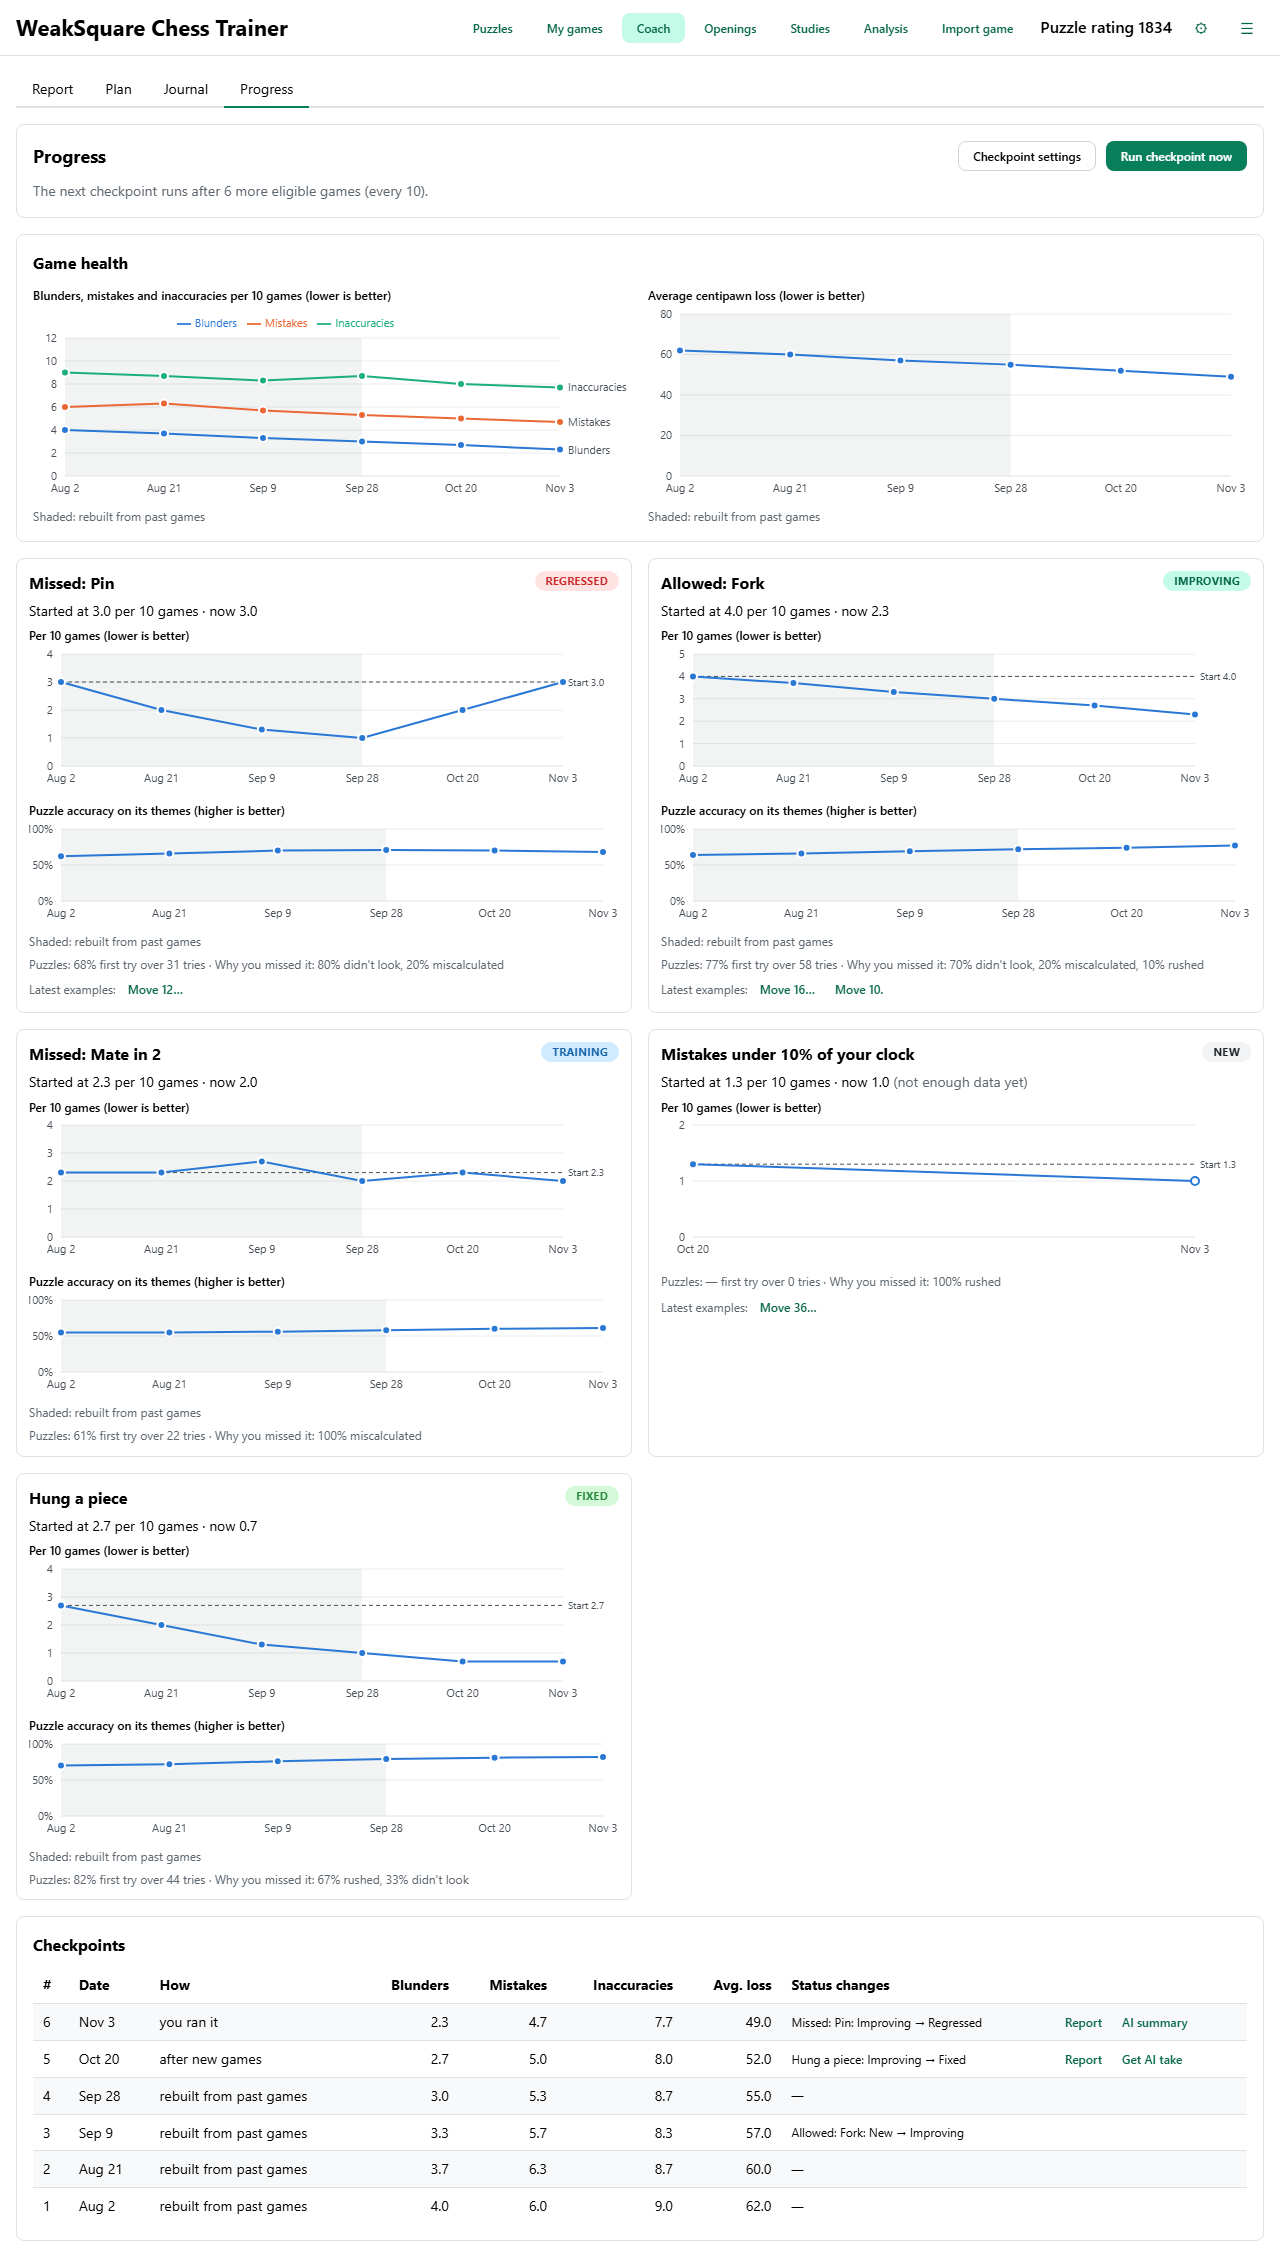
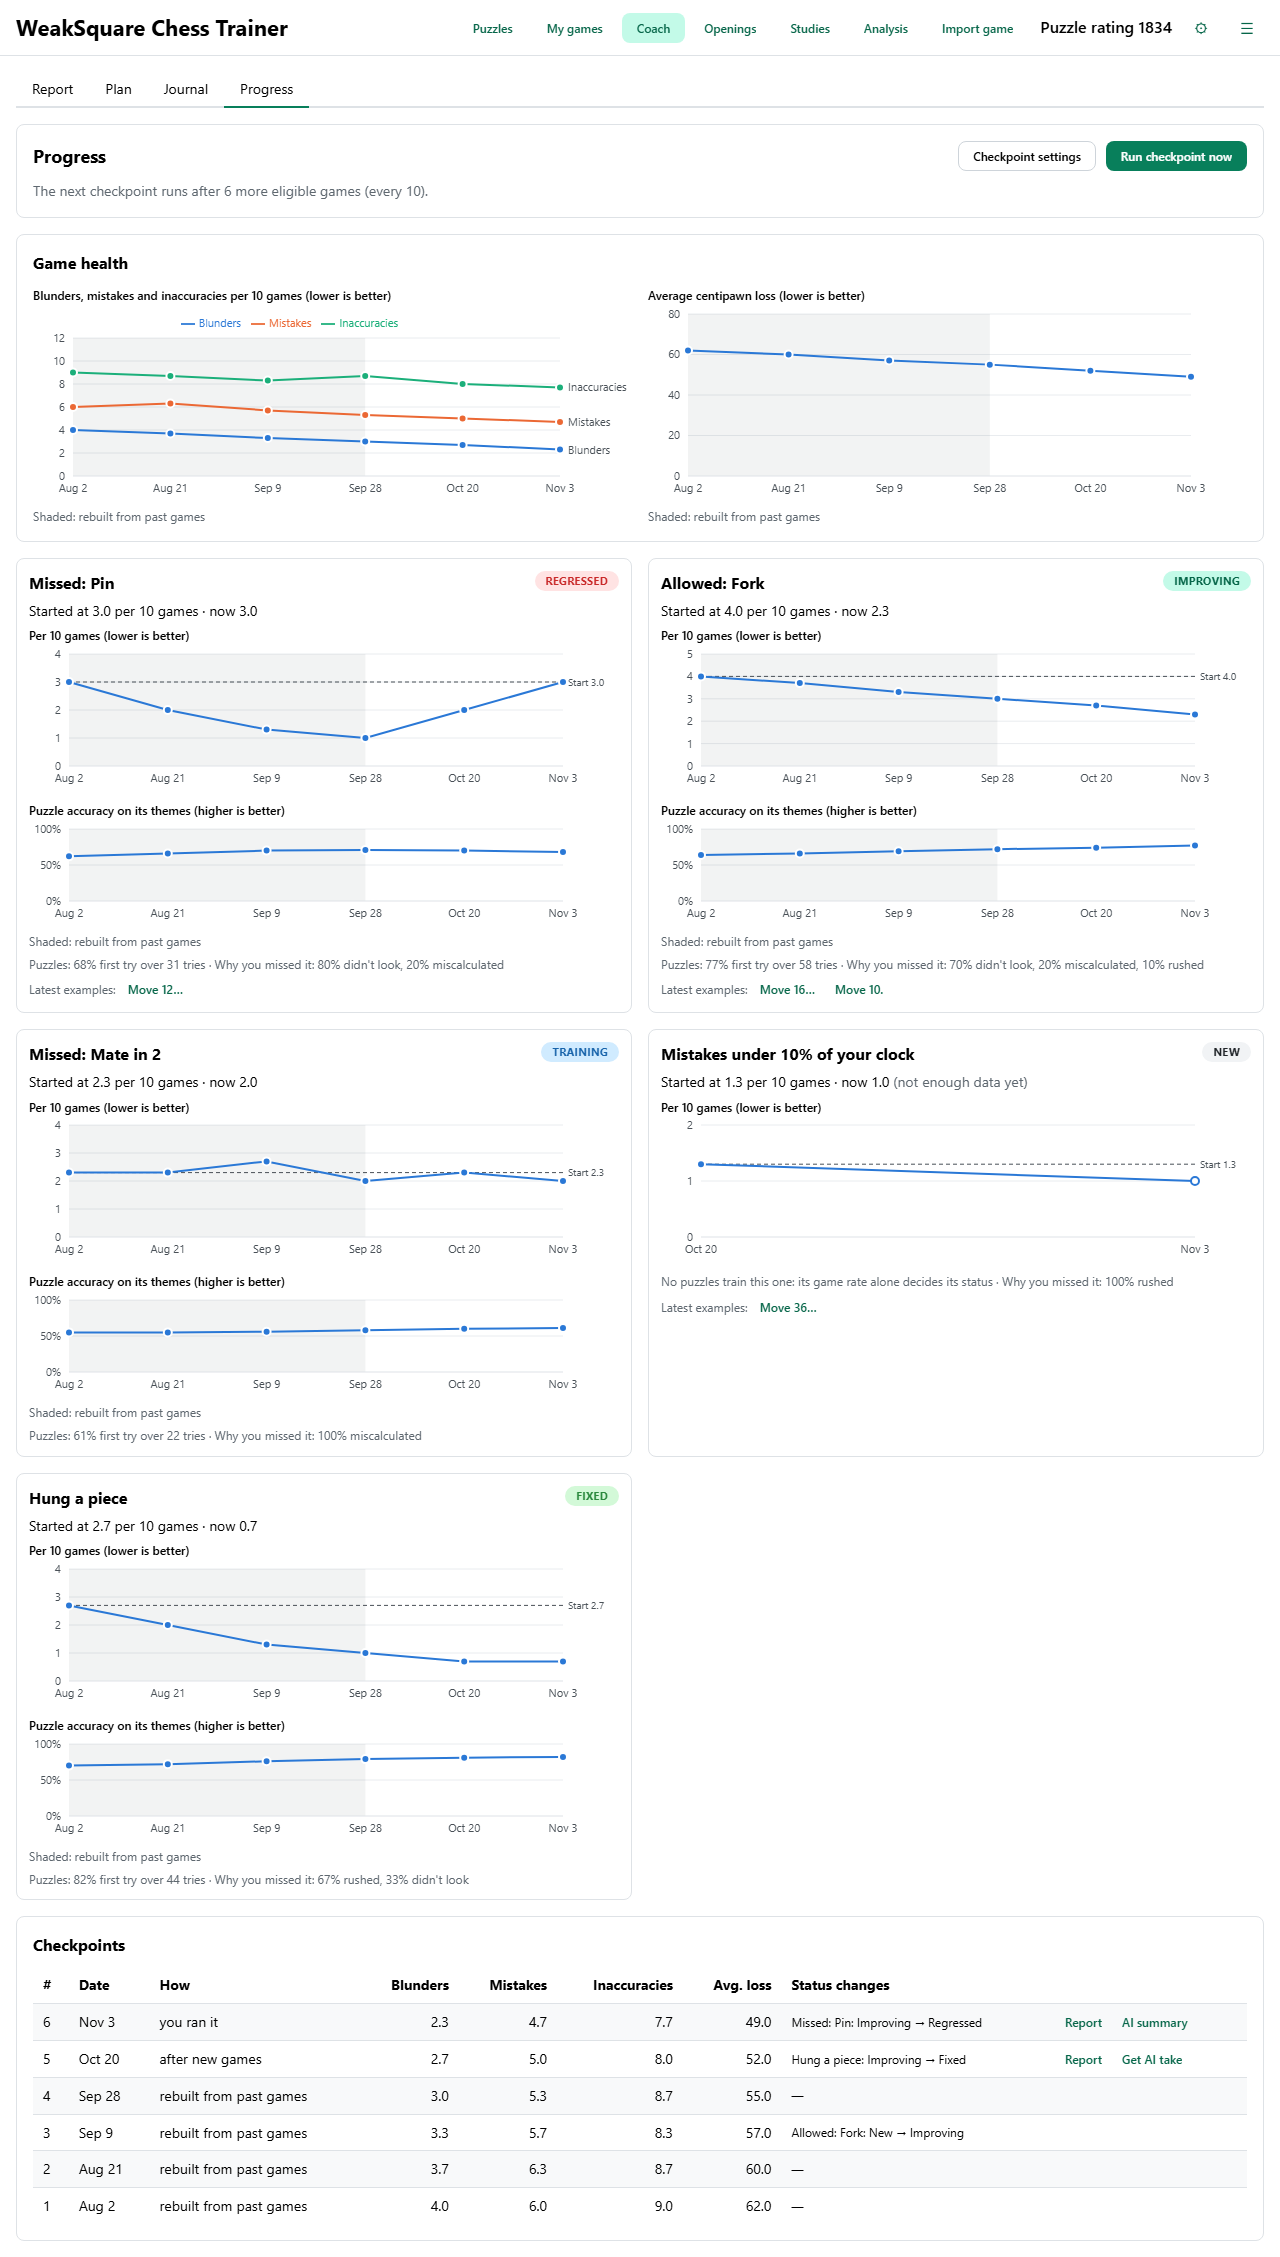
v1.0 QA round 1 fixes: B1-B6
- B1 (major): the wizard no longer records "restore" before a restore
  runs. The start that swaps a staged backup in calls
  SetupService.note_restored; a refused or failed restore leaves the
  welcome step and its error. choose_setup accepts only "fresh".
- B2: ruff format of tests/smoke/conftest.py.
- B3: a weakness no puzzle trains says so (WeaknessCard.puzzle_themes)
  instead of "over 0 tries"; no tries yet says that.
- B4: a card's two charts share their margins so each checkpoint sits
  at the same x; the left margin no longer clips "100%".
- B5: US spelling in the CHANGELOG and User Guide.
- B6: FR-10.38's main sentence matches the two-chart build note.

Regression tests: QA's xfails now pass; integration tests for B1 and B3.
ARCHITECTURE §7 wizard entry updated. Screenshots regenerated.

diff --git a/web/src/components/ProgressTab.tsx b/web/src/components/ProgressTab.tsx
@@ -137,7 +137,9 @@ function TrendChart({
       </Text>
       <div style={{ width: "100%", height }} aria-label={title}>
         <ResponsiveContainer>
-          <LineChart data={data} margin={{ top: 8, right: series.length > 1 ? 72 : baseline !== undefined ? 56 : 16, bottom: 0, left: -12 }}>
+          {/* The same right margin with or without the baseline's label, so a card's two charts put each checkpoint
+              at the same x (v1.0-B4). */}
+          <LineChart data={data} margin={{ top: 8, right: series.length > 1 ? 72 : 56, bottom: 0, left: -4 }}>
             <CartesianGrid vertical={false} stroke={GRID[scheme]} />
             <XAxis dataKey="when" tick={{ fontSize: 11, fill: INK[scheme] }} tickLine={false} axisLine={{ stroke: GRID[scheme] }} minTickGap={16} />
             <YAxis
@@ -256,7 +258,12 @@ function WeaknessCardView({ card, onReview }: { card: WeaknessCard; onReview: (g
             series={[{ key: "accuracy", label: "Puzzle accuracy" }]} percent height={110} testId="progress-accuracy-chart" />
         )} {/* prettier-ignore */}
         <Text size="xs" c="dimmed">
-          Puzzles: {pct(card.puzzle_accuracy)} first try over {card.puzzle_attempts} tries · Why you missed it: {reasonMix(card.reasons)}
+          {!card.puzzle_themes
+            ? "No puzzles train this one: its game rate alone decides its status"
+            : card.puzzle_attempts === 0
+              ? "Puzzles: no tries on its themes yet"
+              : `Puzzles: ${pct(card.puzzle_accuracy)} first try over ${card.puzzle_attempts} tries`}{" "}
+          · Why you missed it: {reasonMix(card.reasons)}
         </Text>
         {card.examples.length > 0 && (
           <Group gap={4}>

diff --git a/web/src/api/mockProgress.ts b/web/src/api/mockProgress.ts
@@ -65,8 +65,9 @@ function points(per10: (number | null)[], accuracy: (number | null)[], guarded: 
 
 function seeded(): WeaknessCard[] {
   const last = (p: ProgressPoint[]) => p[p.length - 1];
-  const card = (c: Omit<WeaknessCard, "current_per10" | "current_guarded" | "puzzle_accuracy">): WeaknessCard => ({
+  const card = (c: Omit<WeaknessCard, "current_per10" | "current_guarded" | "puzzle_accuracy" | "puzzle_themes">): WeaknessCard => ({
     ...c, current_per10: last(c.points).per10, current_guarded: last(c.points).guarded, puzzle_accuracy: last(c.points).puzzle_accuracy,
+    puzzle_themes: c.kind !== "time", // nothing trains time use with puzzles
   }); // prettier-ignore
   return [
     card({
@@ -173,6 +174,7 @@ export class MockProgress {
           key, kind, label, status: "training", status_since: n, baseline_per10: per10, baseline_games: 30, current_per10: per10,
           current_guarded: false, puzzle_accuracy: 0.66, puzzle_attempts: 24, reasons: { didntLook: 2 },
           points: [{ checkpoint: n, created_at: created, per10, puzzle_accuracy: 0.66, guarded: false, reconstructed: false }], examples: [],
+          puzzle_themes: true,
         }); // prettier-ignore
         this.cards = [first("allowed:fork", "allowed", "Allowed: Fork", 4.0), first("missed:pin", "missed", "Missed: Pin", 3.0)];
       }

diff --git a/web/src/api/ApiClient.ts b/web/src/api/ApiClient.ts
@@ -615,8 +615,8 @@ export interface ApiClient {
   // ---- v1.0: the first-run wizard (NFR-8, FR-15.4) ----
   /** Whether to show the wizard and which step, decided from what's installed. */
   getSetupState(): Promise<SetupState>;
-  /** The welcome step: "fresh", or "restore" just before Replace my data. */
-  chooseSetup(choice: "fresh" | "restore"): Promise<SetupState>;
+  /** The welcome step's Start fresh. A restore is recorded by the app once it has swapped in (v1.0-B1). */
+  chooseSetup(choice: "fresh"): Promise<SetupState>;
   skipSetupStep(step: "engine" | "lichess"): Promise<SetupState>;
   finishSetup(): Promise<SetupState>;
   /** Subscribe to pushed events (job progress, account, sync). Returns an unsubscribe function. */

diff --git a/web/src/views/WizardView.tsx b/web/src/views/WizardView.tsx
@@ -35,7 +35,7 @@ function Welcome({ onFresh, onChanged }: { onFresh: () => void; onChanged: () =>
     if (!info) return;
     setError(null);
     try {
-      await api.chooseSetup("restore"); // kept through the restart: the wizard comes back at the puzzle step
+      // Nothing is recorded here: the app notes the restore at startup once it has swapped in (v1.0-B1).
       setJobId(await api.restoreBackup(info.token));
     } catch (e) {
       setError((e as Error).message);

diff --git a/web/src/api/mockClient.ts b/web/src/api/mockClient.ts
@@ -2516,7 +2516,7 @@ export class MockClient implements ApiClient {
     }; // prettier-ignore
   }
 
-  async chooseSetup(choice: "fresh" | "restore") {
+  async chooseSetup(choice: "fresh") {
     this.setup.choice = choice;
     this.calls.push(`setupChoice:${choice}`);
     return this.getSetupState();

diff --git a/web/src/api/pywebviewClient.ts b/web/src/api/pywebviewClient.ts
@@ -1079,7 +1079,7 @@ export class PywebviewClient implements ApiClient {
     return this.call<SetupState>("get_setup_state");
   }
 
-  chooseSetup(choice: "fresh" | "restore") {
+  chooseSetup(choice: "fresh") {
     return this.call<SetupState>("choose_setup", choice);
   }
 

diff --git a/web/src/api/types.ts b/web/src/api/types.ts
@@ -1782,6 +1782,7 @@ export interface WeaknessCard {
   reasons: Record<string, number>;
   points: ProgressPoint[];
   examples: ProgressExample[];
+  puzzle_themes: boolean;
 }
 
 export interface CheckpointRow {

diff --git a/tests/integration/test_setup_wizard.py b/tests/integration/test_setup_wizard.py
@@ -3,7 +3,7 @@ one doesn't, each step resumes from what's installed, and a restore from it come
 
 from __future__ import annotations
 
-import sqlite3
+import random
 from dataclasses import replace
 from pathlib import Path
 from typing import Any
@@ -105,20 +105,56 @@ def test_the_bridge(services: Any, paths: config.Paths, clock: FixedClock) -> No
     assert api.finish_setup()["ok"] is False
 
 
-def test_a_restore_from_the_wizard_comes_back_at_the_puzzle_step(
+def _start(paths: config.Paths, clock: FixedClock, notice: Any) -> Any:
+    from tests.helpers import fake_service_kwargs
+    from weaksquare.app import build_services
+    from weaksquare.jobs.runner import JobRunner
+
+    return build_services(paths, clock, JobRunner(), random.Random(1), restore_notice=notice, **fake_service_kwargs())
+
+
+def test_a_restore_from_the_wizard_comes_back_after_the_welcome_step(
     services: Any, tmp_path: Path, clock: FixedClock
 ) -> None:
-    """FR-15.4 from the wizard: the choice is this PC's, so it survives the swap; the restored data skips welcome."""
+    """FR-15.4 from the wizard: the start that swaps the backup in records the choice (v1.0-B1), and your data came
+    across; the wizard carries on after Welcome."""
     seed(services)
     zip_path = backup_of(services, tmp_path, clock)
     new = new_install(tmp_path)
     migrate(new.user_db, config.MIGRATIONS_DIR / "user", clock)
-    conn = sqlite3.connect(new.user_db)
-    conn.execute("INSERT INTO settings (key, value) VALUES (?, ?)", (CHOICE_KEY, '"restore"'))
-    conn.commit()
-    conn.close()
     files_for(new).stage_restore(zip_path)
-    assert apply_staged_restore(new, clock).error is None  # type: ignore[union-attr]
+    notice = apply_staged_restore(new, clock)
+    assert notice is not None and notice.error is None
+    started = _start(new, clock, notice)
+    try:
+        st = started.setup.state()
+        assert st.facts.choice == "restore" and st.show and st.step != "welcome"
+    finally:
+        started.close()
     settings = dict(dump(new.user_db)["settings"])
-    assert settings[CHOICE_KEY] == '"restore"'  # kept through the restore
-    assert settings["mixer.filters"] == '{"seeded": true}'  # and your data came across
+    assert settings[CHOICE_KEY] == '"restore"'
+    assert settings["mixer.filters"] == '{"seeded": true}'  # your data came across
+
+
+def test_qa_b1_a_restore_that_failed_or_never_ran_records_no_choice(tmp_path: Path, clock: FixedClock) -> None:
+    """v1.0-B1: only a restore that swapped in counts. A failed swap (your data put back) or a plain start leaves the
+    welcome step, with Restore and Start fresh, in place; the UI can't record "restore" ahead of time either."""
+    from weaksquare.services.backup import RestoreNotice
+
+    new = new_install(tmp_path)
+    migrate(new.user_db, config.MIGRATIONS_DIR / "user", clock)
+    for notice in (RestoreNotice(None, None, "The restore didn't finish."), None):
+        started = _start(new, clock, notice)
+        try:
+            st = started.setup.state()
+            assert st.facts.choice is None and st.step == "welcome", notice
+            with pytest.raises(ValidationError):
+                started.setup.choose("restore")
+        finally:
+            started.close()
+
+
+def test_a_restore_after_the_wizard_finished_records_nothing(services: Any) -> None:
+    services.setup._settings.set("setup.finished", True)
+    services.setup.note_restored()
+    assert services.setup._settings.get(CHOICE_KEY) is None

diff --git a/tests/e2e/test_wizard_ui.py b/tests/e2e/test_wizard_ui.py
@@ -1,6 +1,6 @@
 """v1.0 the first-run wizard against the mock (NFR-8, FR-15.4): a fresh install goes Welcome → puzzle database →
-Stockfish → Lichess → the app; each step can be skipped where the requirement allows; Restore from a backup records
-the choice before restarting; an existing install never sees it. The step rule itself is tested in
+Stockfish → Lichess → the app; each step can be skipped where the requirement allows; Restore from a backup restarts
+without recording a choice (the app does once the swap succeeds, v1.0-B1); an existing install never sees it. The step rule itself is tested in
 tests/unit/test_setup_core.py and tests/integration/test_setup_wizard.py."""
 
 from __future__ import annotations
@@ -58,14 +58,13 @@ def test_stockfish_can_be_skipped_and_the_end_says_so(page: Page) -> None:
     expect(page.get_by_test_id("wizard-done")).to_contain_text("Stockfish isn't installed yet")
 
 
-def test_restore_records_the_choice_then_restarts(page: Page) -> None:
+def test_restore_restarts_without_recording_a_choice_first(page: Page) -> None:
     fresh(page)
     page.get_by_test_id("wizard-restore").click()
     expect(page.get_by_test_id("wizard-restore-info")).to_contain_text("42 games")
     page.get_by_test_id("wizard-restore-go").click()
     expect(page.get_by_test_id("wizard-restore-progress")).to_contain_text("Restarting to finish the restore")
-    log = calls(page)
-    assert log.index("setupChoice:restore") < log.index("restoreBackup")  # kept through the restart
+    assert "setupChoice:restore" not in calls(page)  # recorded by the app only once the swap succeeds (v1.0-B1)
 
 
 def test_an_existing_install_never_sees_it(page: Page) -> None:

diff --git a/tests/e2e/test_qa_v10_ui.py b/tests/e2e/test_qa_v10_ui.py
@@ -31,7 +31,6 @@ def setup_state(page: Page) -> dict:  # type: ignore[type-arg]
     return page.evaluate("window.__mockApi.getSetupState()")  # type: ignore[no-any-return]
 
 
-@pytest.mark.xfail(strict=True, reason="v1.0-B1: the choice is recorded before the restore is accepted")
 def test_qa_b1_a_refused_restore_leaves_no_restore_choice_behind(page: Page) -> None:
     fresh(page)
     page.get_by_test_id("wizard-restore").click()
@@ -150,7 +149,6 @@ def test_qa_two_checkpoints_on_the_same_day_are_two_points(page: Page) -> None:
     expect(card.get_by_test_id("progress-rate-chart").locator("circle")).to_have_count(2)
 
 
-@pytest.mark.xfail(strict=True, reason="v1.0-B3: a weakness no puzzle trains says 'Puzzles: — first try over 0 tries'")
 def test_qa_b3_a_weakness_no_puzzle_trains_has_no_puzzle_line(page: Page) -> None:
     page.goto(page.base_url + "/?progress=history")  # type: ignore[attr-defined]
     page.get_by_test_id("nav-coach").click()
@@ -167,7 +165,6 @@ def _last_point_x(chart) -> float:  # type: ignore[no-untyped-def]
     return float(box["x"] + box["width"] / 2)
 
 
-@pytest.mark.xfail(strict=True, reason="v1.0-B4: the card's two charts don't share their x positions")
 def test_qa_b4_a_cards_two_charts_put_each_checkpoint_at_the_same_x(page: Page) -> None:
     """FR-10.38 (v1.0 build): game rate and puzzle accuracy are two charts "sharing the time axis". The same checkpoint
     should sit at the same horizontal position in both, so the shaded rebuilt stretch and the dates line up."""

diff --git a/src/weaksquare/services/setup_state.py b/src/weaksquare/services/setup_state.py
@@ -65,11 +65,17 @@ class SetupService:
                           bool(db.installed) and bool(db.needs_upgrade))  # fmt: skip
 
     def choose(self, choice: Any) -> SetupState:
-        """The welcome step: Start fresh, or Restore (recorded just before the restore restarts the app)."""
-        if choice not in CHOICES:
-            raise ValidationError("Choose Start fresh or Restore from a backup.")
+        """The welcome step's Start fresh. Restore isn't chosen here: it's recorded by `note_restored` only once a
+        restore has actually swapped your data in (v1.0-B1), so a refused or failed one leaves the welcome step."""
+        if choice != "fresh":
+            raise ValidationError("Choose Start fresh, or restore a backup.")
         self._settings.set(CHOICE_KEY, choice)
         return self.state()
+
+    def note_restored(self) -> None:
+        """At startup, after a staged restore swapped in (FR-15.4): an unfinished wizard carries on after Welcome."""
+        if self._settings.get(FINISHED_KEY) is not True:
+            self._settings.set(CHOICE_KEY, "restore")
 
     def skip(self, which: Any) -> SetupState:
         if which not in SKIPPABLE:

diff --git a/tests/integration/test_checkpoints.py b/tests/integration/test_checkpoints.py
@@ -143,6 +143,19 @@ def test_points_are_saved_per_checkpoint_for_the_charts(services, cp) -> None:  
     assert [p.number for p in card.points] == [1, 2] and [p.per10 for p in card.points] == [10.0, 0.0]
     assert card.baseline_per10 == 10.0 and card.current_per10 == 0.0
     assert [c.number for c in view.checkpoints] == [1, 2]
+    assert card.puzzle_themes  # mate-in-1 puzzles train it
+
+    # v1.0-B3: a weakness without puzzle themes (time use, openings) says so, instead of "over 0 tries"
+    from dataclasses import replace as _replace
+
+    repo = services.checkpoints._repo
+    real = repo.tracked
+    repo.tracked = lambda: {k: _replace(t, themes=()) for k, t in real().items()}
+    try:
+        bare = next(c for c in services.checkpoints.progress().weaknesses if c.key == "allowed:mateIn1")
+        assert not bare.puzzle_themes
+    finally:
+        repo.tracked = real
 
 
 def test_filters_you_changed_get_the_banner_not_replaced(services, cp) -> None:  # type: ignore[no-untyped-def]
